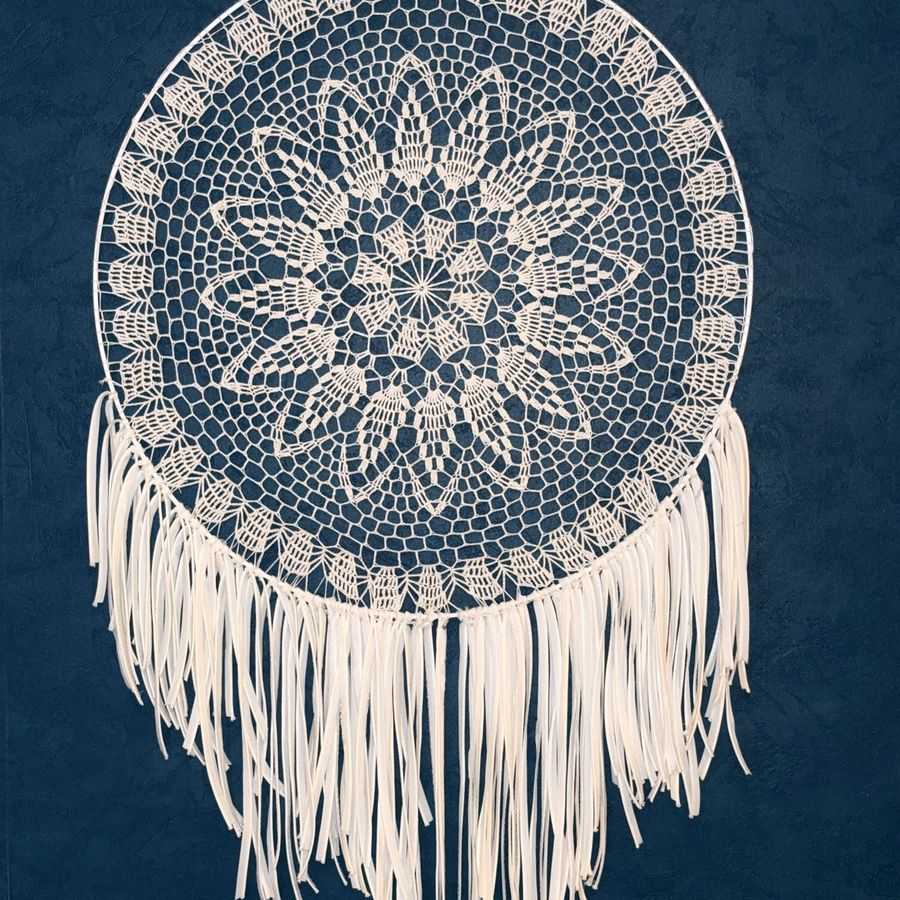
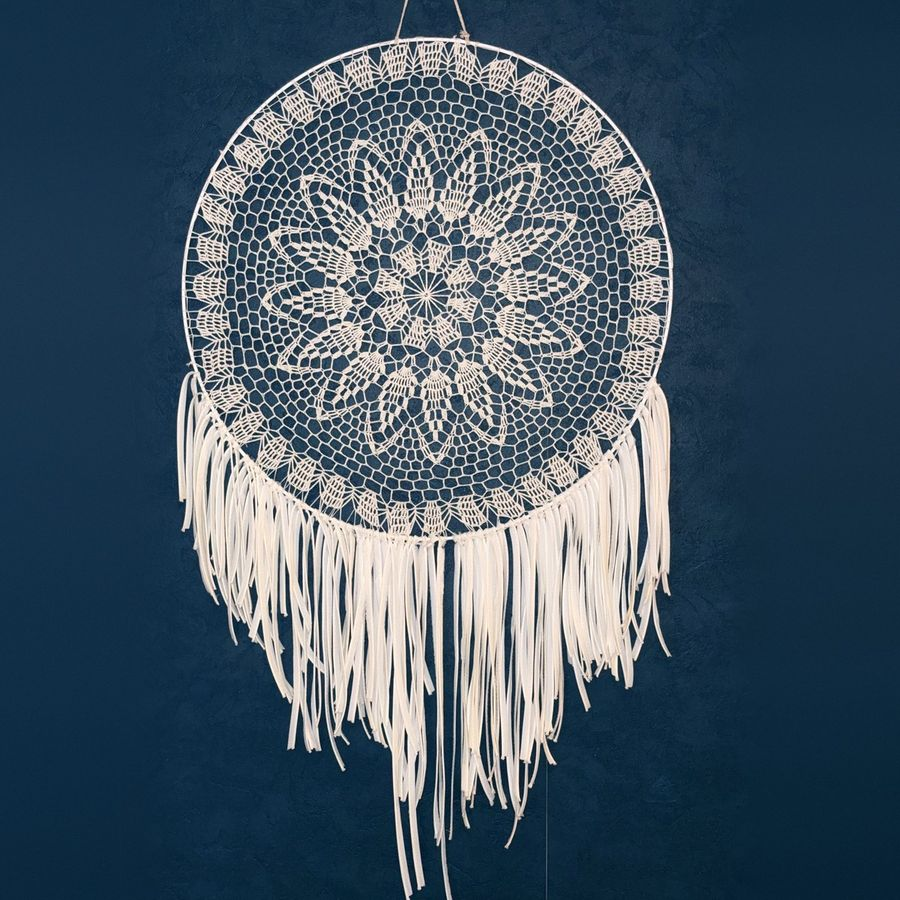
Attrape-rêves Lune blanche et Sous-bois : nouvelles photos entières sur leur mur
Création visible en entier (mur prolongé sur les côtés au lieu d'un
recadrage qui coupait les franges), deux gros plans chacun.

Claude-Session: https://claude.ai/code/session_01G2XTWjD5JS1t56zm255j7L

diff --git a/index.html b/index.html
@@ -572,11 +572,11 @@ const PRODUCTS=[
    photos:["img/mandala-dore.jpg", "img/mandala-dore-dentelle.jpg", "img/mandala-dore-rubans.jpg"],
    desc:"Un mandala de dentelle couleur or, rehaussé de plumes et de rubans, pour une touche lumineuse et bohème."},
   {id:"lune-blanche",cat:"reves",name:"Mandala Lune blanche",sub:"Dentelle blanche à franges",mode:"stock",stock:1,price:65,draft:true,weight:280,dims:[45, 38, 6],care:"reve",
-   photos:["img/mandala-blanc.jpg", "img/mandala-blanc-detail.jpg"],
-   desc:"Un grand mandala blanc à longues franges, lumineux sur un mur coloré comme sur un mur clair."},
-  {id:"bois",cat:"reves",name:"Attrape-rêves bois flotté",sub:"Cercle et dentelle sur bois",mode:"stock",stock:1,price:55,draft:true,weight:250,dims:[40, 32, 6],care:"reve",
-   photos:["img/attrape-reves-bois-detail.jpg"],
-   desc:"Un attrape-rêves aux tons naturels, dentelle et bois, pour une ambiance douce et nature."},
+   photos:["img/mandala-blanc.jpg", "img/mandala-blanc-detail.jpg", "img/mandala-blanc-franges.jpg"],
+   desc:"Une grande dentelle écrue en forme de fleur, tendue dans un cercle blanc, et une cascade de longues franges : lumineux sur un mur coloré comme sur un mur clair."},
+  {id:"bois",cat:"reves",name:"Attrape-rêves Sous-bois",sub:"Cercle de liane, dentelle blanche, plumes brunes",mode:"stock",stock:1,price:55,draft:true,weight:250,dims:[40, 32, 6],care:"reve",
+   photos:["img/attrape-reves-bois.jpg", "img/attrape-reves-bois-detail.jpg", "img/attrape-reves-bois-plumes.jpg"],
+   desc:"Une dentelle blanche tendue dans un cercle de liane tressée, des plumes brunes, des rubans d'organza chocolat et des perles blanches : un attrape-rêves aux tons chauds et naturels."},
   {id:"ensemble",cat:"vetements",name:"Ensemble à franges",sub:"Haut et jupe au crochet",mode:"stock",stock:1,price:59,draft:true,weight:300,dims:[32, 26, 5],care:"vetement",
    photos:["img/ensemble.jpg"],
    desc:"Un ensemble au crochet à franges, léger et bohème, réalisé entièrement à la main."},
